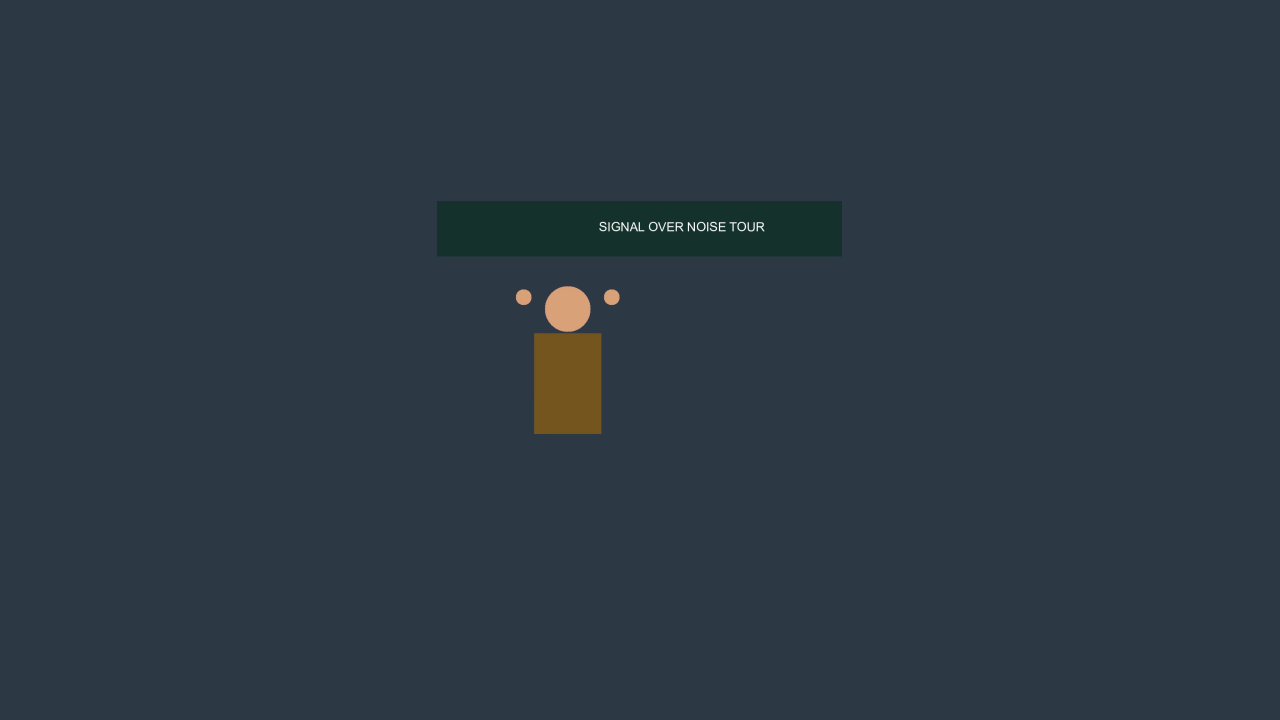
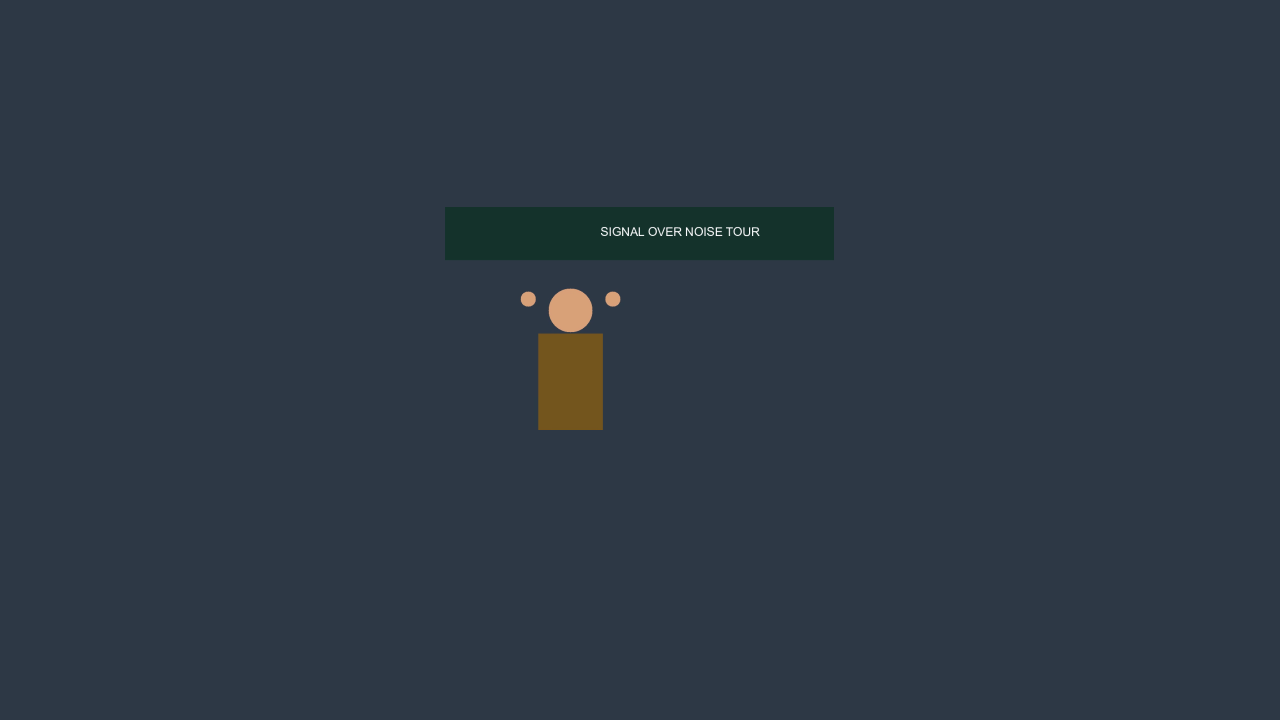
Cover composition keeps a margin inside the safe area
The first composed fit set the picture edge-to-edge against the
platform crops: the banner landed exactly on the 9:16 window's
edges, and a live re-check's judgement-tier box estimate read that
as the banner being cut. The composition now fits the region at
96 percent of the safe area — a poster's own breathing room — so
the measured boxes and the estimated boxes agree the sign survives
the crops whole. Regenerated cover variant files; suite 73/73.

Changed region(s): [[0.3438, 0.275, 0.6562, 0.3667], [0.4062, 0.3972, 0.5, 0.4278], [0.4062, 0.5806, 0.4688, 0.6111]]

diff --git a/server/repair.js b/server/repair.js
@@ -180,9 +180,13 @@ async function composeCoverFrame(buffer, boxes, baseTransform) {
 
   // Scale the region to the safe area and place it: horizontally the
   // region centres in the safe area; vertically the SUBJECT centres
-  // in the frame (clamped so the picture never leaves the frame).
+  // in the frame (clamped so the picture never leaves the frame). The
+  // fit keeps a small margin inside the safe area — a poster does not
+  // set its picture edge-to-edge against the platform crops, and the
+  // margin is what lets the re-check's own box estimates agree that
+  // the sign survives the crops whole.
   const safe = safeArea(width, height);
-  const scale = Math.min((safe.x1 - safe.x0) / regionW, (safe.y1 - safe.y0) / regionH);
+  const scale = Math.min((safe.x1 - safe.x0) / regionW, (safe.y1 - safe.y0) / regionH) * 0.96;
   const picW = Math.round(regionW * scale);
   const picH = Math.round(regionH * scale);
   const offX = Math.round((safe.x0 + safe.x1) / 2 - picW / 2);
